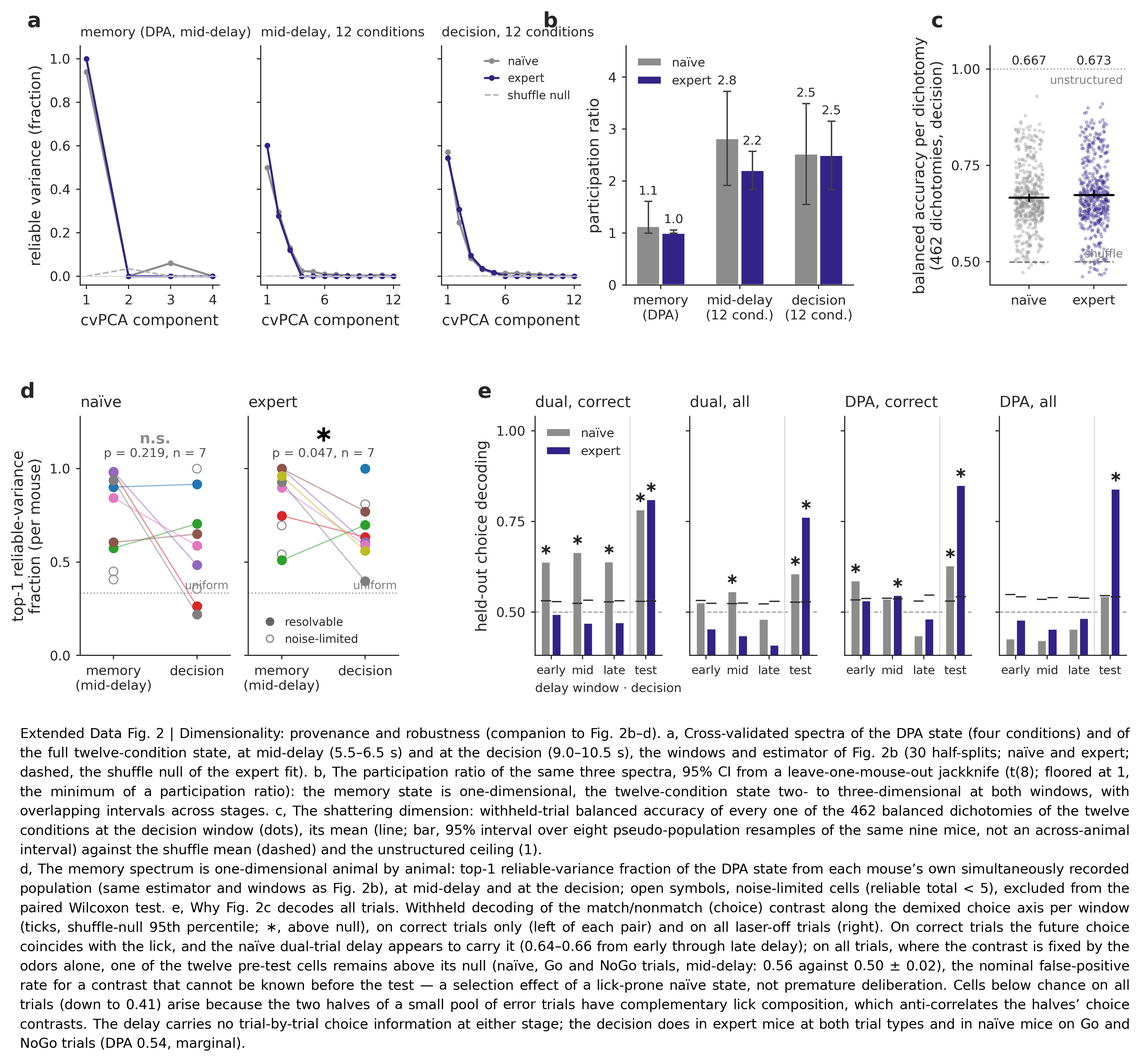
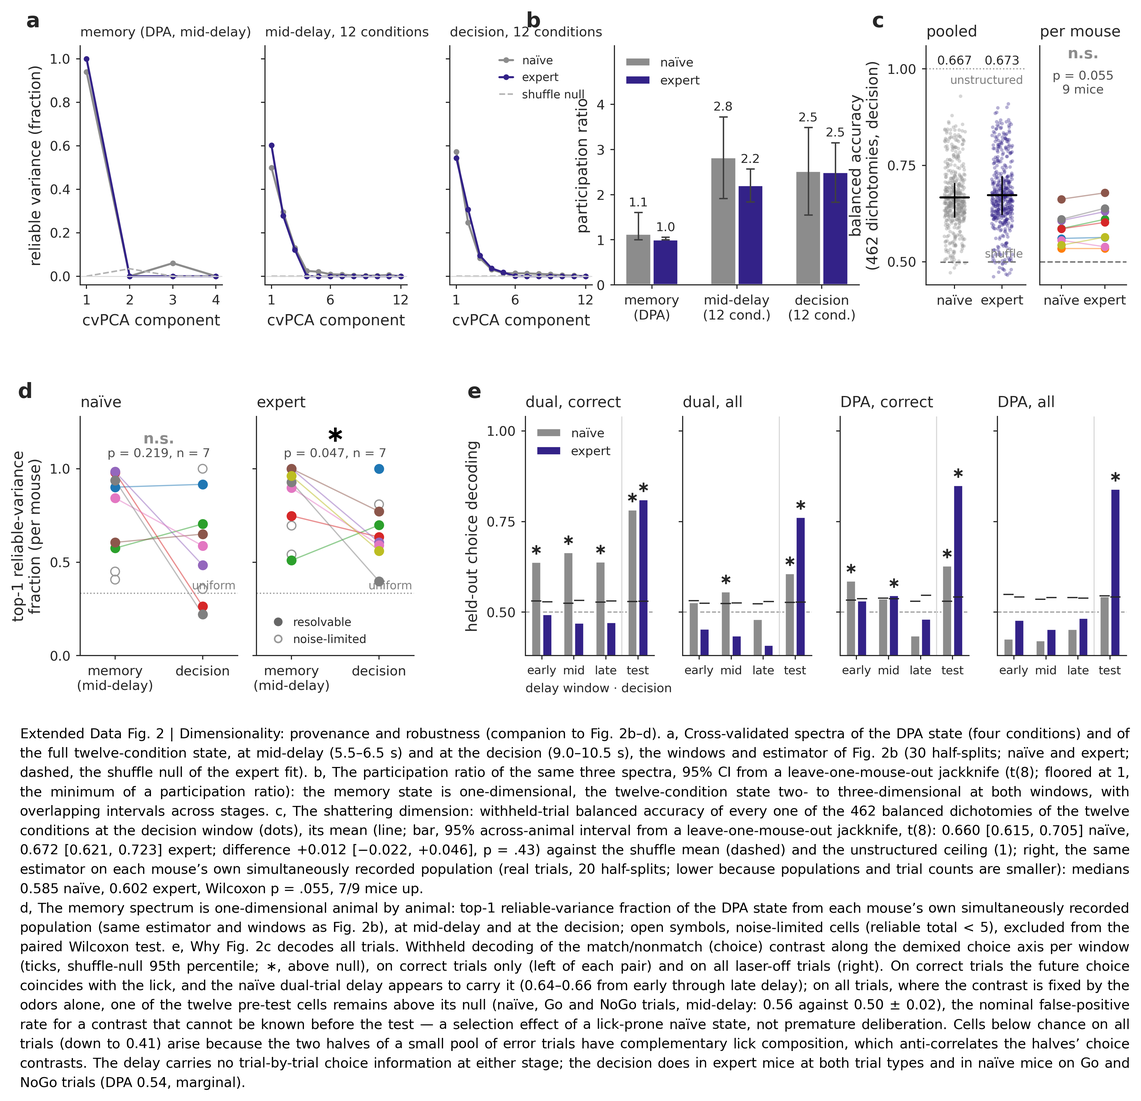
ED 2c: per-animal shattering companion (LOO jackknife + own-population); draft v12.37
exp_shatter_permouse.py writes SD_LOO (jackknife Δ +0.012 [−0.022, +0.046], p .43) and SD_MOUSE
(own-population medians 0.585→0.602, Wilcoxon p .055, 7/9) into results.pkl; ED 2c draws the
across-animal interval and a per-mouse paired panel; §3/Methods/ED 2 legend updated; docs + memory synced.

Claude-Session: https://claude.ai/code/session_01PzGzWMKHPqqyp4poHedntF

diff --git a/pca/exp_shatter_permouse.py b/pca/exp_shatter_permouse.py
@@ -1,0 +1,144 @@
+"""Per-animal companion to the shattering dimension (ED 2c) — reviewer item 2026-09-15.
+
+ED 2c's interval is a pseudo-population RESAMPLE interval of the same nine mice, not an across-animal one. Two
+animal-level views of the same estimator (exp_dimensionality_ci.py: 462 balanced dichotomies of the 12 conditions,
+decision window 54-62, disjoint train/test halves per mouse x condition, 24 pseudo-trials per condition, scaler +
+PCA(30) on the training half, LDA per dichotomy):
+
+  1. SD_LOO  — leave-one-mouse-out jackknife of the pseudo-population SD: the estimator re-run on the eight
+               remaining mice, for each held-out mouse and stage (B=8 resamples each, real labels only — the
+               shuffle floor 0.50 is established by SD_FULL). Gives a jackknife SE / t(8) for each stage and for
+               the Expert-Naive difference (paired over held-out mice).
+  2. SD_MOUSE — each mouse's OWN simultaneously recorded population (same design without pseudo-trial
+               resampling: real trials, repeated stratified half-splits, B=20), Naive and Expert. The
+               animal-level test of "unchanged by learning" is a Wilcoxon over the nine mice. Absolute values
+               are lower than the pseudo-population's (fewer trials, fewer neurons) — read the stage contrast,
+               not the level.
+
+Merge-dumps SD_LOO and SD_MOUSE into figures/pseudo/dimensionality/results.pkl.
+Run:  cd /home/leon/dual/pca && /home/leon/mambaforge/envs/dual/bin/python exp_shatter_permouse.py
+"""
+import sys, os, warnings, pickle
+warnings.filterwarnings('ignore'); sys.path.insert(0, '/home/leon/dual/')
+os.chdir(os.path.dirname(os.path.abspath(__file__)))
+import numpy as np
+from itertools import combinations
+from joblib import Parallel, delayed
+from scipy.stats import wilcoxon, t as tdist
+from sklearn.pipeline import make_pipeline
+from sklearn.preprocessing import StandardScaler
+from sklearn.decomposition import PCA
+from sklearn.discriminant_analysis import LinearDiscriminantAnalysis
+from sklearn.metrics import balanced_accuracy_score
+
+MICE = ['JawsM01', 'JawsM06', 'JawsM12', 'JawsM15', 'JawsM18', 'ChRM04', 'ChRM23', 'ACCM03', 'ACCM04']
+STAGES = ['Naive', 'Expert']
+TASKS3 = ['DPA', 'DualGo', 'DualNoGo']
+ALL12 = [(t, s, te) for t in TASKS3 for s in (0, 1) for te in (0, 1)]
+NJOBS = 36
+
+print('loading fits-inputs cache (no 20 GB X reload) …')
+_c = pickle.load(open('figures/pseudo/dimensionality/fits_inputs.pkl', 'rb'))
+VALIDIX = _c['VALIDIX']; N = _c['N']; M = np.ascontiguousarray(_c['AW']['decision'])
+MOUSE, LEARN, LAS, TSK, SAMP, TESTO, PERF = (_c['L'][k] for k in
+                                             ['MOUSE', 'LEARN', 'LAS', 'TSK', 'SAMP', 'TESTO', 'PERF'])
+del _c
+
+
+def all_dich(nc=12):
+    seen, out = set(), []
+    for s in combinations(range(nc), nc // 2):
+        s = frozenset(s); key = min(tuple(sorted(s)), tuple(sorted(set(range(nc)) - s)))
+        if key not in seen:
+            seen.add(key); out.append(list(s))
+    return out
+
+
+DICH462 = all_dich()
+COND_IDX = {(m, st, ci): np.where((MOUSE == m) & (LEARN == st) & (LAS == 0) & (PERF == 1)
+                                  & (TSK == t) & (SAMP == s) & (TESTO == te))[0]
+            for m in MICE for st in STAGES for ci, (t, s, te) in enumerate(ALL12)}
+
+
+def decode_all(Xtr, ctr, Xte, cte):
+    pre = make_pipeline(StandardScaler(), PCA(min(30, Xtr.shape[0] - 1), random_state=0)).fit(Xtr)
+    Ztr, Zte = pre.transform(Xtr), pre.transform(Xte)
+    acc = np.zeros(len(DICH462))
+    for di, plus in enumerate(DICH462):
+        clf = LinearDiscriminantAnalysis().fit(Ztr, np.isin(ctr, plus).astype(int))
+        acc[di] = balanced_accuracy_score(np.isin(cte, plus).astype(int), clf.predict(Zte))
+    return acc
+
+
+# ── 1. leave-one-mouse-out pseudo-population (exp_dimensionality_ci.shatter_full on 8 mice) ────────────
+def shatter_loo(stage, hold, K=24, B=8):
+    mice = [m for m in MICE if m != hold]
+    cols = np.sort(np.concatenate([VALIDIX[(m, stage)] for m in mice]))
+    out = np.zeros((len(DICH462), B))
+    for b in range(B):
+        rng = np.random.RandomState(2000 + b)
+        Xtr = np.zeros((12 * K, N)); Xte = np.zeros((12 * K, N)); crow = np.repeat(np.arange(12), K)
+        for ci in range(12):
+            for m in MICE:                                   # held-out mouse still consumes its rng draws
+                p = rng.permutation(COND_IDX[(m, stage, ci)]); h = len(p) // 2
+                if m == hold:
+                    continue
+                val = VALIDIX[(m, stage)]
+                for X, pi in ((Xtr, p[:h]), (Xte, p[h:])):
+                    if len(pi):
+                        X[ci * K:(ci + 1) * K, val] = M[np.ix_(pi[rng.randint(0, len(pi), K)], val)]
+        out[:, b] = decode_all(Xtr[:, cols], crow, Xte[:, cols], crow)
+    return stage, hold, out
+
+
+# ── 2. each mouse's own population, real trials, repeated half-splits ──────────────────────────────────
+def shatter_mouse(stage, m, B=20):
+    val = VALIDIX[(m, stage)]; pools = [COND_IDX[(m, stage, ci)] for ci in range(12)]
+    out = np.zeros((len(DICH462), B))
+    for b in range(B):
+        rng = np.random.RandomState(3000 + b); tr, te, ctr, cte = [], [], [], []
+        for ci, idx in enumerate(pools):
+            p = rng.permutation(idx); h = len(p) // 2
+            tr += list(p[:h]); te += list(p[h:]); ctr += [ci] * h; cte += [ci] * (len(p) - h)
+        out[:, b] = decode_all(M[np.ix_(tr, val)], np.array(ctr), M[np.ix_(te, val)], np.array(cte))
+    return stage, m, out
+
+
+print(f'\n══ 1. leave-one-mouse-out shattering (18 jobs × 8 resamples × 462 dichotomies, {NJOBS} workers) ══')
+res = Parallel(n_jobs=NJOBS, verbose=5)(delayed(shatter_loo)(st, m) for st in STAGES for m in MICE)
+SD_LOO = {'acc': {(st, m): a for st, m, a in res}}
+for st in STAGES:
+    th = np.array([SD_LOO['acc'][(st, m)].mean() for m in MICE]); n = len(th)
+    se = np.sqrt((n - 1) / n * ((th - th.mean()) ** 2).sum())
+    SD_LOO[st] = dict(loo=th, mean=th.mean(), se=se, ci=(th.mean() - tdist.ppf(.975, n - 1) * se,
+                                                        th.mean() + tdist.ppf(.975, n - 1) * se))
+    print(f'  {st:6s}: LOO mean {th.mean():.3f}  jackknife SE {se:.4f}  95% CI [{SD_LOO[st]["ci"][0]:.3f}, '
+          f'{SD_LOO[st]["ci"][1]:.3f}]  range over held-out mice {th.min():.3f}-{th.max():.3f}')
+dl = SD_LOO['Expert']['loo'] - SD_LOO['Naive']['loo']; n = len(dl)
+se = np.sqrt((n - 1) / n * ((dl - dl.mean()) ** 2).sum()); tval = dl.mean() / se
+p = 2 * tdist.sf(abs(tval), n - 1)
+SD_LOO['delta'] = dict(loo=dl, mean=dl.mean(), se=se, t=tval, p=p,
+                       ci=(dl.mean() - tdist.ppf(.975, n - 1) * se, dl.mean() + tdist.ppf(.975, n - 1) * se))
+print(f'  Expert−Naive Δ = {dl.mean():+.4f}  jackknife SE {se:.4f}  t(8) = {tval:+.2f}  p = {p:.3f}  '
+      f'CI [{SD_LOO["delta"]["ci"][0]:+.3f}, {SD_LOO["delta"]["ci"][1]:+.3f}]')
+
+print(f'\n══ 2. per-mouse own-population shattering (18 jobs × 20 half-splits × 462 dichotomies) ══')
+res = Parallel(n_jobs=NJOBS, verbose=5)(delayed(shatter_mouse)(st, m) for st in STAGES for m in MICE)
+SD_MOUSE = {'acc': {(st, m): a for st, m, a in res}}
+for st in STAGES:
+    SD_MOUSE[st] = np.array([SD_MOUSE['acc'][(st, m)].mean() for m in MICE])
+ntr = {(st, m): int(sum(len(COND_IDX[(m, st, ci)]) for ci in range(12))) for st in STAGES for m in MICE}
+SD_MOUSE['ntrials'] = ntr; SD_MOUSE['nneurons'] = {(st, m): len(VALIDIX[(m, st)]) for st in STAGES for m in MICE}
+for i, m in enumerate(MICE):
+    print(f'  {m:8s} naive {SD_MOUSE["Naive"][i]:.3f} ({ntr[("Naive", m)]} tr)  expert {SD_MOUSE["Expert"][i]:.3f} '
+          f'({ntr[("Expert", m)]} tr)  Δ {SD_MOUSE["Expert"][i] - SD_MOUSE["Naive"][i]:+.3f}')
+d = SD_MOUSE['Expert'] - SD_MOUSE['Naive']; w = wilcoxon(SD_MOUSE['Expert'], SD_MOUSE['Naive'])
+SD_MOUSE['delta'] = dict(mean=d.mean(), median=np.median(d), p=float(w.pvalue), npos=int((d > 0).sum()))
+print(f'  median naive {np.median(SD_MOUSE["Naive"]):.3f}  expert {np.median(SD_MOUSE["Expert"]):.3f}  '
+      f'Δ median {np.median(d):+.3f}  Wilcoxon p = {w.pvalue:.3f}  {(d > 0).sum()}/9 up')
+
+RES = 'figures/pseudo/dimensionality/results.pkl'
+r = pickle.load(open(RES, 'rb')) if os.path.exists(RES) else {}
+r['SD_LOO'] = SD_LOO; r['SD_MOUSE'] = SD_MOUSE
+pickle.dump(r, open(RES, 'wb'))
+print('\nmerged SD_LOO + SD_MOUSE into', RES)

diff --git a/pca/fig_ed1_dimensionality.py b/pca/fig_ed1_dimensionality.py
@@ -78,7 +78,7 @@ def panel_a(fig, gs):
         else:
             ax.tick_params(labelleft=False)
         if c == 2:
-            ax.legend(frameon=False, fontsize=PS*6.0, handlelength=1.2, loc='upper right')
+            ax.legend(frameon=False, fontsize=PS*6.0, handlelength=1.2, loc='upper right', bbox_to_anchor=(0.98, 0.98), borderaxespad=0)
     return axes[0]
 
 
@@ -100,31 +100,54 @@ def panel_b(ax):
         for (ts, wn, _), pr, ci in zip(groups, prs, cis):
             print(f'b: {ts:4s} {wn:9s} {stage:6s} PR={pr:.2f} CI [{ci[0]:.2f}, {ci[1]:.2f}]')
     ax.set_xticks(xp); ax.set_xticklabels([g[2] for g in groups], fontsize=PS*7)
-    ax.set_ylim(0, 4.6); ax.set_ylabel('participation ratio')
+    ax.set_ylim(0, 5.3); ax.set_yticks([0, 1, 2, 3, 4]); ax.set_ylabel('participation ratio')
     ax.legend(frameon=False, fontsize=PS*6.5, loc='upper left')
 
 
 # ══ c — the shattering dimension of the twelve conditions (SD_FULL: all 462 balanced dichotomies at the
 #     decision window 54–62, exp_dimensionality_ci.py — the numbers Results §3 quotes) ═════════════════
-def panel_c(ax):
-    SDF = RES['SD_FULL']
+def panel_c(fig, gs):
+    """Left: pseudo-population SD (SD_FULL dots/mean; bar = across-animal leave-one-mouse-out jackknife 95% CI,
+    SD_LOO). Right: each mouse's own population (SD_MOUSE), paired naive -> expert, Wilcoxon n = 9."""
+    SDF, LOO, SDM = RES['SD_FULL'], RES['SD_LOO'], RES['SD_MOUSE']
+    ax = fig.add_subplot(gs[0, 0]); ax2 = fig.add_subplot(gs[0, 1], sharey=ax)
     rng = np.random.RandomState(3)
     for j, stage in enumerate(STAGES):
-        acc = np.asarray(SDF[stage]['acc']); nul = np.asarray(SDF[stage]['null']); ci = SDF[stage]['ci']
+        acc = np.asarray(SDF[stage]['acc']); nul = np.asarray(SDF[stage]['null']); ci = LOO[stage]['ci']
         x = j + rng.uniform(-0.22, 0.22, len(acc))
         ax.scatter(x, acc, s=5, color=SC[stage], alpha=0.35, lw=0, zorder=2)
         ax.plot([j - 0.3, j + 0.3], [acc.mean()] * 2, color='k', lw=1.3, zorder=4)
         ax.vlines(j, ci[0], ci[1], color='k', lw=0.9, zorder=4)
         ax.plot([j - 0.3, j + 0.3], [nul.mean()] * 2, color='0.45', lw=0.9, ls='--', zorder=3)
         ax.text(j, 1.005, f'{acc.mean():.3f}', ha='center', va='bottom', fontsize=PS*6.5)
-        print(f'c: {stage:6s} shattering {acc.mean():.3f} [resample CI {ci[0]:.3f}, {ci[1]:.3f}]  null {nul.mean():.3f}  '
+        print(f'c: {stage:6s} shattering {acc.mean():.3f} [LOO jackknife CI {ci[0]:.3f}, {ci[1]:.3f}; resample CI '
+              f'{SDF[stage]["ci"][0]:.3f}, {SDF[stage]["ci"][1]:.3f}]  null {nul.mean():.3f}  '
               f'({len(acc)} dichotomies, range {acc.min():.2f}–{acc.max():.2f})')
+    D = LOO['delta']
+    print(f'c: Expert−Naive Δ {D["mean"]:+.3f} [{D["ci"][0]:+.3f}, {D["ci"][1]:+.3f}] t(8) {D["t"]:+.2f} p {D["p"]:.3f}')
     ax.axhline(1.0, ls=':', color='0.6', lw=0.8)
     ax.text(1.45, 0.985, 'unstructured', fontsize=PS*6, color='0.5', ha='right', va='top')
     ax.text(1.45, 0.505, 'shuffle', fontsize=PS*6, color='0.5', ha='right', va='bottom')
     ax.set_xticks([0, 1]); ax.set_xticklabels(['naïve', 'expert'], fontsize=PS*7)
     ax.set_xlim(-0.6, 1.5); ax.set_ylim(0.44, 1.06); ax.set_yticks([0.5, 0.75, 1.0])
-    ax.set_ylabel('balanced accuracy per dichotomy\n(462 dichotomies, decision)')
+    ax.set_ylabel('balanced accuracy\n(462 dichotomies, decision)')
+    ax.set_title('pooled', loc='left', fontsize=TITLE_FS)
+    # right: own-population shattering, one line per mouse
+    a, b = SDM['Naive'], SDM['Expert']
+    for k, m in enumerate(MICE):
+        ax2.plot([0, 1], [a[k], b[k]], '-', color=MC[m], lw=0.8, alpha=0.5, zorder=2)
+        ax2.scatter([0, 1], [a[k], b[k]], s=22, color=MC[m], linewidths=0.6, zorder=3)
+    pw = wilcoxon(b, a).pvalue; sig = pw < .05
+    ax2.text(0.5, 1.02, '∗' if sig else 'n.s.', ha='center', va='bottom', fontsize=PS*(12 if sig else 8),
+             fontweight='bold', color='k' if sig else '0.55')
+    ax2.text(0.5, 0.93, f'p = {pw:.3f}\n9 mice', ha='center', va='bottom', fontsize=PS*6.5, color='0.3')
+    ax2.axhline(0.5, ls='--', color='0.45', lw=0.9, zorder=1)
+    ax2.set_xticks([0, 1]); ax2.set_xticklabels(['naïve', 'expert'], fontsize=PS*7); ax2.set_xlim(-0.5, 1.5)
+    plt.setp(ax2.get_yticklabels(), visible=False); ax2.tick_params(axis='y', length=0)
+    ax2.set_title('per mouse', loc='left', fontsize=TITLE_FS)
+    print(f'c: per-mouse own-population SD medians {np.median(a):.3f} / {np.median(b):.3f}, Δ median '
+          f'{np.median(b - a):+.3f}, Wilcoxon p {pw:.3f}, {int((b > a).sum())}/9 up')
+    return ax
 
 
 # ══ d — per-mouse cvPCA: the memory spectrum is one-dimensional animal by animal ═══════════════
@@ -207,17 +230,18 @@ def panel_e(fig, gs):
 
 # ══ ASSEMBLE ═══════════════════════════════════════════════════════════════════════════════════
 fig = plt.figure(figsize=(10.0, 6.2))
-outer = fig.add_gridspec(2, 12, height_ratios=[1.0, 1.0], hspace=0.55, wspace=1.0,
+outer = fig.add_gridspec(2, 24, height_ratios=[1.0, 1.0], hspace=0.55, wspace=1.0,
                          left=0.065, right=0.985, top=0.955, bottom=0.09)
-gsA = outer[0, 0:6].subgridspec(1, 3, wspace=0.30)
+gsA = outer[0, 0:12].subgridspec(1, 3, wspace=0.30)
 axA = panel_a(fig, gsA)
-axB = fig.add_subplot(outer[0, 6:9]); panel_b(axB)
-axC = fig.add_subplot(outer[0, 10:12]); panel_c(axC)
-gsD = outer[1, 0:4].subgridspec(1, 2, wspace=0.12)
+axB = fig.add_subplot(outer[0, 12:18]); panel_b(axB)
+gsC = outer[0, 19:24].subgridspec(1, 2, wspace=0.15, width_ratios=[1.15, 1.0])
+axC = panel_c(fig, gsC)
+gsD = outer[1, 0:8].subgridspec(1, 2, wspace=0.12)
 axD = panel_d(fig, gsD)
-gsE = outer[1, 5:12].subgridspec(1, 4, wspace=0.22)
+gsE = outer[1, 10:24].subgridspec(1, 4, wspace=0.22)
 axE = panel_e(fig, gsE)
-plabel(axA, 'a', dx=-0.28); plabel(axB, 'b', dx=-0.30); plabel(axC, 'c', dx=-0.34)
+plabel(axA, 'a', dx=-0.28); plabel(axB, 'b', dx=-0.30); plabel(axC, 'c', dx=-0.42)
 plabel(axD, 'd', dx=-0.30); plabel(axE, 'e', dx=-0.34)
 
 CAP = [
@@ -229,8 +253,11 @@ CAP = [
     'the memory state is one-dimensional, the twelve-condition state two- to three-dimensional at both windows, with '
     'overlapping intervals across stages. c, The shattering dimension: withheld-trial balanced accuracy of every one '
     'of the 462 balanced dichotomies of the twelve conditions at the decision window (dots), its mean (line; bar, 95% '
-    'interval over eight pseudo-population resamples of the same nine mice, not an across-animal interval) against '
-    'the shuffle mean (dashed) and the unstructured ceiling (1).',
+    'across-animal interval from a leave-one-mouse-out jackknife, t(8): 0.660 [0.615, 0.705] naïve, 0.672 [0.621, 0.723] '
+    'expert; difference +0.012 [−0.022, +0.046], p = .43) against the shuffle mean (dashed) and the unstructured ceiling '
+    '(1); right, the same estimator on each mouse’s own simultaneously recorded population (real trials, 20 half-splits; '
+    'lower because populations and trial counts are smaller): medians 0.585 naïve, 0.602 expert, Wilcoxon p = .055, 7/9 '
+    'mice up.',
     'd, The memory spectrum is one-dimensional animal by animal: top-1 reliable-variance fraction of the DPA state '
     'from each mouse’s own simultaneously recorded population (same estimator and windows as Fig. 2b), at mid-delay '
     'and at the decision; open symbols, noise-limited cells (reliable total < 5), excluded from the paired Wilcoxon '

diff --git a/docs/paper/results_draft.md b/docs/paper/results_draft.md
@@ -1,5 +1,12 @@
 # Compositional learning by geometric editing — main paper (draft v12)
 
+> **v12.37 (2026-09-15): PER-ANIMAL SHATTERING COMPANION** (Leon: "run the per-animal shattering companion"; the last open
+> reviewer item that the text could carry). `pca/exp_shatter_permouse.py` (0.7 min on 36 workers — the "≈ 90 min" estimate was
+> serial) adds a leave-one-mouse-out jackknife of the pooled shattering dimension (SD_LOO: 0.660 [0.615, 0.705] naïve, 0.672
+> [0.621, 0.723] expert, Δ +0.012 [−0.022, +0.046], t(8) p = .43) and each mouse's own-population shattering (SD_MOUSE: medians
+> 0.585 / 0.602, Wilcoxon p = .055, 7/9 up). ED 2c now draws the jackknife interval (was the resample interval) plus a per-mouse
+> paired panel; §3 replaces "unchanged by learning (Δ = +0.006)" with the animal-level statement; Methods states both estimators.
+
 > **v12.36 (2026-09-15): ALL-TRIAL PLANE AND CCGP ARE CANONICAL** (Leon: "run the all-trial CCGP and plane test" → "make the all-trial versions canonical"). `exp_permouse_plane.py`, `exp_ooc_plane.py`, `exp_ooc_plane_pseudo.py` and `fig_ccgp.py` gained --alltrials; Fig. 3c, ED 1b–d and the text now read those caches. Everything survives the selection argument: Fig. 3c sample 0.73 → 0.58, choice 0.63 → 0.55, test at chance from the plane (p .012); ED 1c pooled sample 0.98/0.92, choice 0.75/0.62; per-mouse sample 0.81. What moved: the GNG plane-only rise is now significant (0.56 → 0.64, p .027, 7/9) and the test plane-only "drop" is gone (p .31); the per-mouse choice-plane capture falls from 0.73 to 0.56 (n 7); the CCGP test nudge is a trend (Δ +0.02, p .074, was .012) and the test code still barely generalizes (0.55–0.58), so the Discussion's "conjunctive" reading is not a lick artifact. Methods trial-set paragraph rewritten.
 
 > **v12.35 (2026-09-15): EXPERT REVIEW OF THE EXTENDED DATA APPLIED** (Leon: "Get a subagent to review the Extended Data as an expert reviewer … apply the fixes"). Animal-level inference for the dPCA axis mixing (ED 3b, mouse-cluster bootstrap): choice–task alignment survives (Δ +0.076 [+0.017, +0.122], p .011), the sample–test separation does not (p .33) — §2 says so. ED 5's "no deficit … therefore specific" replaced by a bounded statement (CIs include β = −0.06). ED 6 DPA trend is the two ChR2 mice (Jaws-only ρ +0.21) — §6 no longer reads it as a coupling. ED 2e caption reconciled with its own star (1 of 12 pre-test cells, the nominal false-positive rate) and a diagnosis of the sub-chance cells. Bootstrap CIs over mice on every coupling ρ; per-mouse (not 18-point) lick–depth ρ; PR CIs floored at 1; Holm for the CCGP test code; n = 6 disclosed in ED 1c; the star whitelist removed from ED 1d; print scale 1.2 so every ED literal prints ≥ 5 pt; Methods gains a trial-set paragraph; discussion cited "5d" for the lick covariate (line-wrapped, missed) → 4d. Fig. 4 legend now states the readout dependence of the coupling. PIPELINE RUNS STILL OPEN (reviewer): all-trial versions of the plane, per-mouse plane and CCGP; a per-animal shattering companion; a refit-dPCA bootstrap; a seeded CCGD tensor for a trial-level lick control.
@@ -683,7 +690,9 @@ The abstract character of the format, its generalization across conditions [Bern
 likewise present in the first dual task sessions and preserved. Per-mouse cross-condition
 generalization sat on the naïve = expert line for the sample and choice codes; only the test code nudged upward as a trend (Δ = +0.02, p = .074), which we report without a verdict (Extended Data Fig. 1b). Decoding all 462 balanced dichotomies of the 12
 conditions, the shattering dimension, gave 0.67 at both stages against a shuffle floor of 0.50 and an
-unstructured ceiling of 1 (Extended Data Fig. 2c), unchanged by learning (Δ = +0.006). High
+unstructured ceiling of 1 (Extended Data Fig. 2c), with no detectable change across animals (leave-one-mouse-out
+difference +0.012, 95% CI [−0.022, +0.046], p = .43) and at most a small rise within each mouse's own population
+(medians 0.59 to 0.60, p = .055, 7/9 mice). High
 generalization with moderate shattering is the abstract, compressed regime that Bernardi et al.
 described in hippocampus and prefrontal cortex [Bernardi 2020].
 
@@ -999,7 +1008,9 @@ label-shuffle nulls (per-mouse companion: Wilcoxon, n = 9). The shattering dimen
 all 462 balanced 6-vs-6 dichotomies of the 12 conditions at the decision window (disjoint
 train/test halves per mouse × condition, 24 pseudo-trials per condition, scaler + PCA(30) fit
 on the training half only, LDA per dichotomy, 8 resamples; null: pseudo-trial condition labels
-permuted, 0.50). Per-neuron selectivity (Fig. 2g, ED 6b) uses per-neuron d′ (pooled-variance;
+permuted, 0.50). Its across-animal interval is a leave-one-mouse-out jackknife of the pooled estimate (t(8)); the
+per-mouse companion runs the same decoder on each mouse's own population (real trials, 20 stratified half-splits,
+Wilcoxon over mice). Per-neuron selectivity (Fig. 2g, ED 6b) uses per-neuron d′ (pooled-variance;
 sample at mid-delay across tasks, choice at the decision window on correct DPA trials) with a
 selectivity threshold at the 95th percentile of a within-mouse label-permutation |d′| null
 (computed on the sample window and applied to both); the fraction of double-selective neurons
@@ -1413,8 +1424,11 @@ from a leave-one-mouse-out jackknife (t(8); floored at 1, the minimum of a parti
 (naïve / expert), twelve-condition mid-delay 2.8 / 2.2, decision 2.5 / 2.5 — the memory state is one-dimensional, the
 twelve-condition state two- to three-dimensional at both windows, with overlapping intervals across stages. c, The shattering dimension: withheld-trial balanced
 accuracy of every one of the 462 balanced dichotomies of the twelve conditions at the decision window (dots), its
-mean (line; bar, 95% interval over eight pseudo-population resamples of the same nine mice, not an across-animal
-interval; 0.667 naïve, 0.673 expert) against the shuffle mean (dashed, 0.50) and the unstructured ceiling (1). d, The memory spectrum is one-dimensional animal by animal: top-1
+mean (line; 0.667 naïve, 0.673 expert; bar, 95% across-animal interval from a leave-one-mouse-out jackknife, t(8):
+[0.615, 0.705] and [0.621, 0.723]; difference +0.012 [−0.022, +0.046], p = .43) against the shuffle mean (dashed,
+0.50) and the unstructured ceiling (1); right, the same estimator on each mouse's own simultaneously recorded
+population (real trials, 20 half-splits; lower because populations and trial counts are smaller): medians 0.585
+naïve, 0.602 expert, Wilcoxon p = .055, 7/9 mice up. d, The memory spectrum is one-dimensional animal by animal: top-1
 reliable-variance fraction of the DPA state from each mouse's own simultaneously recorded population (same estimator
 and windows as Fig. 2b), at mid-delay and at the decision (medians 0.90 naïve / 0.93 expert; expert
 memory-vs-decision Wilcoxon p = .047, 6/7; naïve p = .22); open symbols, noise-limited cells (reliable total < 5),

diff --git a/docs/pca/dimensionality.md b/docs/pca/dimensionality.md
@@ -1,3 +1,10 @@
+> **2026-09-15 (latest) — PER-ANIMAL SHATTERING COMPANION (ED 2c):** `exp_shatter_permouse.py` (0.7 min, 36 joblib workers)
+> writes `SD_LOO` (leave-one-mouse-out jackknife of the pooled 462-dichotomy SD: 0.660 [0.615, 0.705] naïve, 0.672
+> [0.621, 0.723] expert, Δ +0.012 [−0.022, +0.046], t(8) p = .43) and `SD_MOUSE` (each mouse's own population, real trials,
+> 20 half-splits: medians 0.585 / 0.602, Wilcoxon p = .055, 7/9 up) into results.pkl. ED 2c's bar is now the jackknife
+> interval (the SD_FULL resample interval is only printed) and a per-mouse paired panel sits to its right. §3 no longer says
+> "unchanged by learning" — it states the animal-level null and the within-mouse trend. Draft v12.37.
+
 # Honest dimensionality — cvPCA + shattering + PC coding (Fig 2)
 
 > **2026-09-15 (later) — ALL-TRIAL PLANE CANONICAL:** `exp_permouse_plane.py --nopca --alltrials` / `exp_ooc_plane*.py --alltrials` write
@@ -113,6 +120,8 @@ across independent trial halves counts.
 - `exp_dimensionality_ci.py` — hardening (2026-08-10, cache-only): shattering over **all 462**
   dichotomies + per-resample CIs (`SD_FULL`), and split-level PR CIs (`PR_CI` — DEMOTED to a
   trial-split stability check; do NOT use as the figure's error bar, it is anti-conservative).
+- `exp_shatter_permouse.py` — per-animal companion of the shattering dimension (2026-09-15): `SD_LOO` jackknife +
+  `SD_MOUSE` own-population; drawn as ED 2c's interval and right-hand panel (see the top note).
 - `exp_dimensionality_jk.py` — **the Fig-2c error bars** (`PR_JK`): leave-one-mouse-out jackknife of
   the averaged-spectrum PR (mice = the exchangeable unit; neurons partition by mouse), 95% CI
   clipped at the PR floor of 1. Values: memory 1.0 [1.0, 1.1] Expert / 1.2 [1.0, 1.8] Naive · delay

diff --git a/docs/rebuild_timings.md b/docs/rebuild_timings.md
@@ -89,3 +89,4 @@ place or from somewhere less direct.
 | 2026-09-15 16:49 | all-trial replications 2026-09-15 | exp_ooc_plane.py --nopca --alltrials | 2.2 | measured |
 | 2026-09-15 16:49 | all-trial replications 2026-09-15 | exp_ooc_plane_pseudo.py --nopca --alltrials | 0.4 | measured |
 | 2026-09-15 17:04 | all-trial replications 2026-09-15 | fig_ccgp.py --canon --alltrials | 19.0 | measured |
+| 2026-09-15 17:42 | per-animal shattering 2026-09-15 | exp_shatter_permouse.py (LOO jackknife 18x8 + own-population 18x20, 462 dich., 36 workers) | 0.7 | measured |
